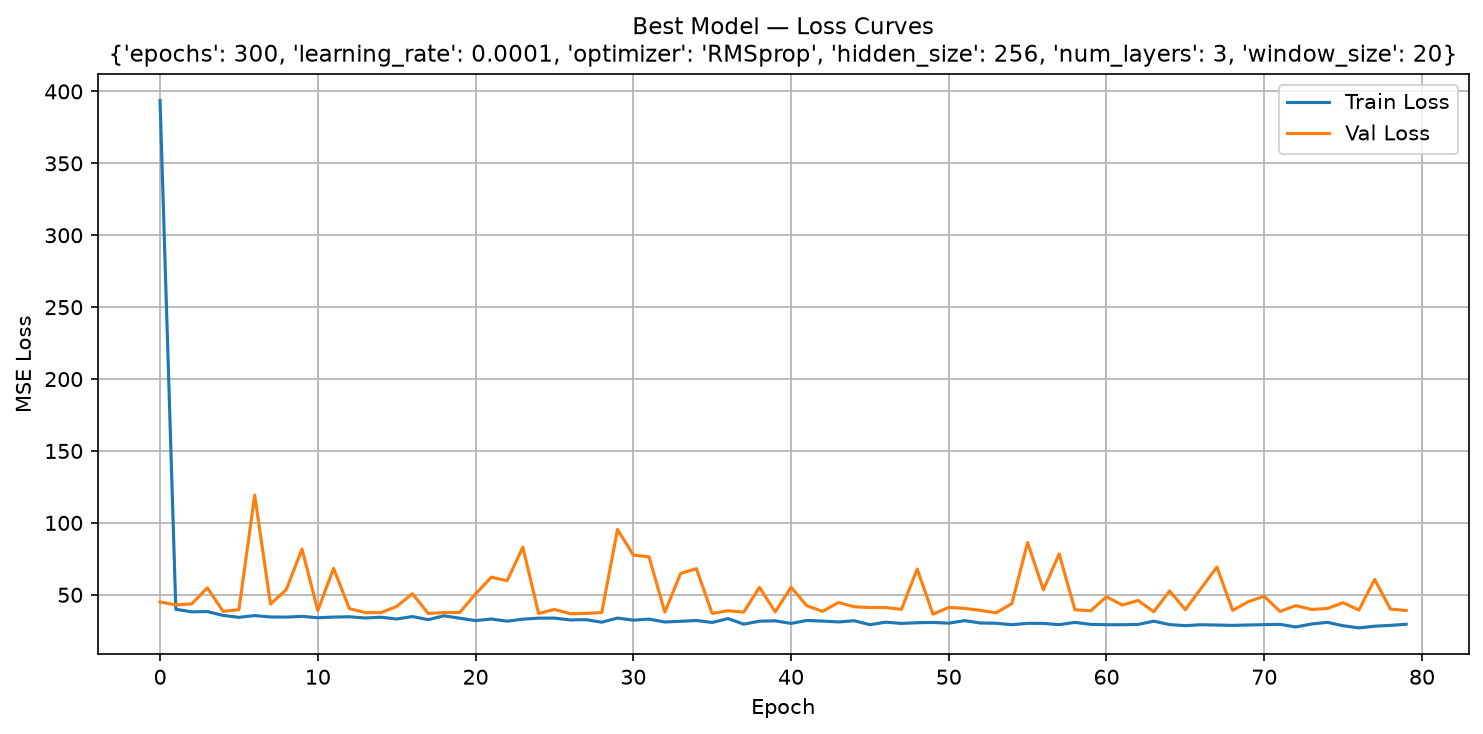
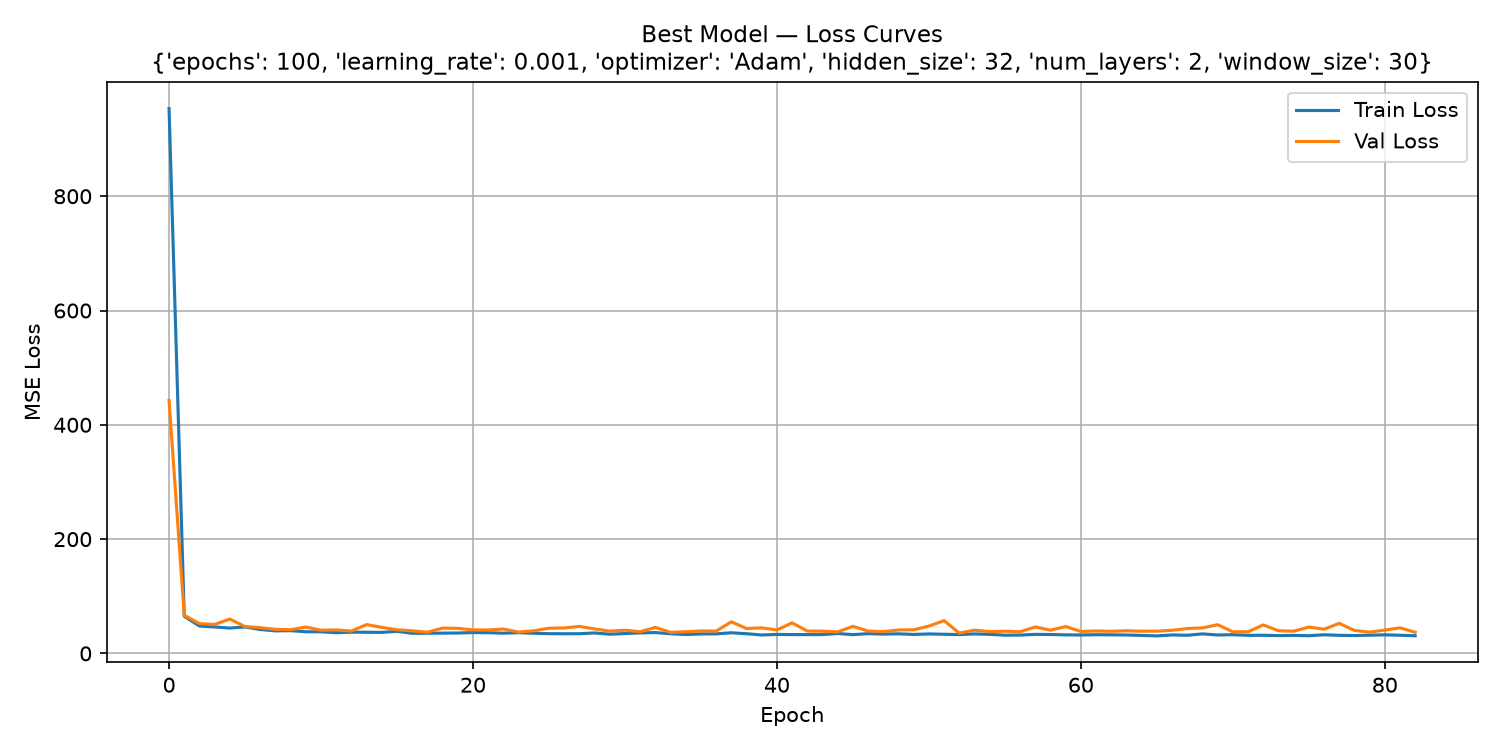
ai-note73: update v12 wide search to select by validation loss
- Full script dump replaced with local val_loss version (5-value train_trial, inf handling)
- What-you-should-see table and commentary rewritten from a real 200-trial run
- Honest finding: 200 trials did not beat version 11 on the test set (R2 0.3710 vs 0.4542)
- All 53 diverged trials use SGD; window answer moved from 10 to 30
- Regenerated v12 loss, predictions and validation-loss bar chart
- Updated meta/og descriptions and the AI Notes card with the new numbers
- Replaced time_12.py in Folder-AI-Forecast.zip

diff --git a/notes/ai-note73.html b/notes/ai-note73.html
@@ -13,7 +13,7 @@
 <meta charset="UTF-8">
 <meta name="viewport" content="width=device-width, initial-scale=1.0">
 <title>How wide should the search be (Forecast, version 12)? | Howard Lam, PhD</title>
-<meta name="description" content="Version 12 widens every dial and runs 200 trials over 5,760 combinations. Eighty-one of those trials collapsed, and the winner took only a small step.">
+<meta name="description" content="Version 12 widens every dial and runs 200 trials over 5,760 combinations. Fifty-three of those trials collapsed, and ten times the search did not beat version 11 on the test set.">
 <link rel="canonical" href="https://pongyuenlam.github.io/notes/ai-note73.html">
 <link rel="alternate" hreflang="en" href="https://pongyuenlam.github.io/notes/ai-note73.html">
 <link rel="alternate" hreflang="zh-Hant" href="https://pongyuenlam.github.io/zh-HK/notes/ai-note73.html">
@@ -22,7 +22,7 @@
 
 <meta property="og:type" content="article">
 <meta property="og:title" content="How wide should the search be (Forecast, version 12)?">
-<meta property="og:description" content="Version 12 widens every dial and runs 200 trials over 5,760 combinations. Eighty-one of those trials collapsed, and the winner took only a small step.">
+<meta property="og:description" content="Version 12 widens every dial and runs 200 trials over 5,760 combinations. Fifty-three of those trials collapsed, and ten times the search did not beat version 11 on the test set.">
 <meta property="og:url" content="https://pongyuenlam.github.io/notes/ai-note73.html">
 <meta property="og:image" content="https://pongyuenlam.github.io/images/howard-lam-profile.jpg">
 <meta property="og:image:alt" content="Howard Lam, PhD">
@@ -34,7 +34,7 @@
   "@context": "https://schema.org",
   "@type": "BlogPosting",
   "headline": "How wide should the search be (Forecast, version 12)?",
-  "description": "Version 12 widens every dial and runs 200 trials over 5,760 combinations. Eighty-one of those trials collapsed, and the winner took only a small step.",
+  "description": "Version 12 widens every dial and runs 200 trials over 5,760 combinations. Fifty-three of those trials collapsed, and ten times the search did not beat version 11 on the test set.",
   "author": {
     "@type": "Person",
     "name": "Howard Pong Yuen Lam"
@@ -109,7 +109,9 @@
     prediction. A negative score is worse. So a large negative number is not a near miss. It means
     the model's guesses were further from the truth than a flat average line would have been. In
     practice, the weights changed too much during training and the errors did not become smaller. The
-    program does not treat this as an error. It records the score and moves on to the next trial.
+    program does not treat this as an error. It records the score and moves on to the next trial. In
+    this version the ranking is by validation loss, so a trial that runs away ends with
+    <code>inf</code> and sinks to the bottom of the table.
   </p>
 
   <h2>What you should see</h2>
@@ -120,62 +122,69 @@
   </p>
   <pre class="code-block no-copy"><code>Running 200 random trials...
 
-Trial   Win  Epochs      LR      Opt  Hidden  Layers        R2        RMSE
+Trial   Win  Epochs      LR      Opt  Hidden  Layers      Val Loss
 ------------------------------------------------------------------------------
-    1    30     500    0.01  RMSprop      64       2    0.4421      5.3064
-    2    10     100    0.01  RMSprop      64       1    0.4529      5.3201
-    4    20     200    0.01      SGD      10       4  -341.2371    132.4929
-    9    50     500     0.1     Adam      32       2   -91.9151     68.3195
-   14    10     100   0.001     Adam      32       2    0.4612      5.2795
-   27    10     300   0.005     Adam     256       4    0.4616      5.2777
-   32    20     100  0.0001     Adam     128       2    0.4646      5.2406
-   70    20     300  0.0001  RMSprop     256       3    0.4790      5.1695
-   89    20     200   0.005      SGD      10       2  -465.9302    154.7587
-   95    20     500     0.1      SGD      64       2  -470.9389    155.5865
-  168    10     200    0.05     Adam      64       4    0.4660      5.2561
-  185    30     100   0.001  RMSprop     256       3    0.4733      5.1559
+    1    30     500    0.01  RMSprop      64       2       38.6746
+    2    10     100    0.01  RMSprop      64       1       37.1127
+    4    20     200    0.01      SGD      10       4           inf
+    8    50     100    0.01      SGD      64       2           inf
+   12    20     500   0.005     Adam      64       2       37.1015
+   31    30     200    0.01      SGD      64       2           inf
+   60    20     500   0.001  RMSprop      10       3       37.2799
+  102    30     100   0.001     Adam      32       2       35.5082
+  131    10     100    0.01     Adam      32       3       37.1468
+  134    10     100     0.1     Adam     128       2       37.1898
+  142    30     300   0.001     Adam      10       2       37.2805
+  148    30     100  0.0001      SGD      10       4     7775.1705
 
 Best model saved → best_model_12.pt
-Best config : {'epochs': 300, 'learning_rate': 0.0001, 'optimizer': 'RMSprop', 'hidden_size': 256, 'num_layers': 3, 'window_size': 20}
+Best config : {'epochs': 100, 'learning_rate': 0.001, 'optimizer': 'Adam', 'hidden_size': 32, 'num_layers': 2, 'window_size': 30}
+Best validation MSE: 35.5082
 
 Test Set Metrics:
-  MAE:  4.1235
-  MSE:  26.7236
-  RMSE: 5.1695
-  R²:   0.4790
+  MAE:  4.4603
+  MSE:  31.7479
+  RMSE: 5.6345
+  R²:   0.3710
 
 Results table saved → search_results_12.xlsx</code></pre>
   <p>
-    Trial 70 is the winner: 300 epochs, learning rate 0.0001, RMSprop, 256 hidden units, 3 layers and
-    a window of 20. Early stopping ended its training after 80 of the 300 allowed epochs, so the extra
+    Trial 102 is the winner: 100 epochs, learning rate 0.001, Adam, 32 hidden units, 2 layers and a
+    window of 30. Early stopping ended its training after 83 of the 100 allowed epochs, so the extra
     epochs in the setting were never used.
   </p>
   <p>
-    <strong>Two hundred trials bought 0.0217 of R&sup2;.</strong> Version 11's best was 0.4573 and
-    this one is 0.4790, so ten times the computing moved the score by 0.0217.
+    <strong>Ten times the search made the test score worse.</strong> Version 11's winner scored
+    R&sup2; 0.4542 on the test days. This winner scores 0.3710, even though its validation loss
+    (35.5082) is better than version 11's (35.7390). This is the price of choosing by validation:
+    with 200 draws there are simply more chances to find a configuration that fits the validation
+    days by luck. The winner overfitted the validation set, and the test set called it out.
   </p>
   <p>
     <strong>Best-of-20 and best-of-200 are not the same measurement.</strong> A larger draw has more
-    chances of catching a lucky configuration.
+    chances of catching a lucky configuration. The version 11 winner would not even be the best
+    choice here, because a different trial happened to look better on the validation days.
   </p>
   <p>
-    <strong>The winner takes very small steps.</strong> The smallest learning rate on offer, 0.0001,
-    won with 0.4790.
+    <strong>Every collapse uses SGD.</strong> Fifty-three of the 200 trials report <code>inf</code>:
+    the loss ran away and never came back. All fifty-three use SGD with no momentum, and most are
+    the larger hidden layers. Adam and RMSprop, which scale each step by recent gradient history,
+    survived every learning rate on offer.
   </p>
   <p>
-    The window answer also moved: version 11 pointed at a window of 10, while this larger search
-    points at 20.
+    The window answer also moved again: version 11 pointed at a window of 10, and this larger search
+    points at 30. A choice that shifts when the search widens is not a stable answer.
   </p>
-  <figure class="exhibit"><img src="/images/forecast-v12-loss.png" alt="Loss curves of the winning trial, with a training line and a validation line drawn by the program" style="max-width:100%; height:auto;"><figcaption>Loss curves of the winning trial, drawn by the program's own plotting code. Training stopped after 80 of the 300 allowed epochs, when early stopping had seen no improvement for 30 epochs.</figcaption></figure>
-  <figure class="exhibit"><img src="/images/forecast-v12-predictions.png" alt="Actual values in pale grey and predicted values as a red line across the test days of the winning trial" style="max-width:100%; height:auto;"><figcaption>Actual (grey) and predicted (red) values on the 217 test days of the winning trial, with a window of 20.</figcaption></figure>
-  <figure class="exhibit"><img src="/images/forecast-v12-r2-bar.png" alt="Bar chart of R squared for all two hundred trials sorted best to worst, with a red dashed line at the best score" style="max-width:100%; height:auto;"><figcaption>R&sup2; for all 200 trials, sorted best to worst, with the best score marked. The negative bars are drawn to scale, which squeezes the good ones against the zero line.</figcaption></figure>
+  <figure class="exhibit"><img src="/images/forecast-v12-loss.png" alt="Loss curves of the winning trial, with a training line and a validation line drawn by the program" style="max-width:100%; height:auto;"><figcaption>Loss curves of the winning trial, drawn by the program's own plotting code. Training stopped after 83 of the 100 allowed epochs, when early stopping had seen no improvement for 30 epochs.</figcaption></figure>
+  <figure class="exhibit"><img src="/images/forecast-v12-predictions.png" alt="Actual values in pale grey and predicted values as a red line across the test days of the winning trial" style="max-width:100%; height:auto;"><figcaption>Actual (grey) and predicted (red) values on the 215 test days of the winning trial, with a window of 30.</figcaption></figure>
+  <figure class="exhibit"><img src="/images/forecast-v12-r2-bar.png" alt="Bar chart of validation loss for all two hundred trials sorted best to worst, with one red dashed line at the best score and a single bar reaching into the millions" style="max-width:100%; height:auto;"><figcaption>Validation loss for all 200 trials, sorted best to worst, with the best score marked. Two runaway trials near the right reach into the millions, which crushes every ordinary trial flat against the red line; the fifty-three trials that diverged entirely have no bar at all.</figcaption></figure>
 
   <h2>The whole program</h2>
   <p>
     The file below is the complete <code>time_12.py</code>, unedited:
   </p>
   <pre class="code-block"><code>import os
-os.environ["KMP_DUPLICATE_LIB_OK"] = "TRUE"
+os.environ[&quot;KMP_DUPLICATE_LIB_OK&quot;] = &quot;TRUE&quot;
 
 import torch
 import torch.nn as nn
@@ -195,20 +204,20 @@ torch.manual_seed(SEED)
 
 # ── Search space ─────────────────────────────────────────────────────────────
 SEARCH_SPACE = {
-    "epochs":       [100, 200, 300, 500],
-    "learning_rate":[0.0001, 0.001, 0.005, 0.01, 0.05, 0.1],
-    "optimizer":    ["Adam", "SGD", "RMSprop"],
-    "hidden_size":  [10, 32, 64, 128, 256],
-    "num_layers":   [1, 2, 3, 4],
-    "window_size":  [10, 20, 30, 50],
+    &quot;epochs&quot;:       [100, 200, 300, 500],
+    &quot;learning_rate&quot;:[0.0001, 0.001, 0.005, 0.01, 0.05, 0.1],
+    &quot;optimizer&quot;:    [&quot;Adam&quot;, &quot;SGD&quot;, &quot;RMSprop&quot;],
+    &quot;hidden_size&quot;:  [10, 32, 64, 128, 256],
+    &quot;num_layers&quot;:   [1, 2, 3, 4],
+    &quot;window_size&quot;:  [10, 20, 30, 50],
 }
 N_TRIALS            = 200
 EARLY_STOP_PATIENCE = 30
 BATCH_SIZE          = 32
 
 # ── Data ─────────────────────────────────────────────────────────────────────
-df = pd.read_csv("time_series.csv")
-series = df["series"].values
+df = pd.read_csv(&quot;time_series.csv&quot;)
+series = df[&quot;series&quot;].values
 series_tensor = torch.tensor(series, dtype=torch.float32)
 
 def make_loaders(window_size):
@@ -224,7 +233,7 @@ def make_loaders(window_size):
     test_loader  = DataLoader(Subset(full_dataset, range(val_end, total)),   batch_size=BATCH_SIZE, shuffle=False)
     return train_loader, val_loader, test_loader
 
-device = torch.device("cuda" if torch.cuda.is_available() else "cpu")
+device = torch.device(&quot;cuda&quot; if torch.cuda.is_available() else &quot;cpu&quot;)
 
 # ── Model factory ─────────────────────────────────────────────────────────────
 def build_model(input_size, hidden_size, num_layers):
@@ -237,21 +246,21 @@ def build_model(input_size, hidden_size, num_layers):
     return nn.Sequential(*layers).to(device)
 
 def get_optimizer(name, params, lr):
-    return {"Adam": optim.Adam, "SGD": optim.SGD, "RMSprop": optim.RMSprop}[name](params, lr=lr)
+    return {&quot;Adam&quot;: optim.Adam, &quot;SGD&quot;: optim.SGD, &quot;RMSprop&quot;: optim.RMSprop}[name](params, lr=lr)
 
 # ── Train one trial ───────────────────────────────────────────────────────────
 def train_trial(cfg):
-    train_loader, val_loader, test_loader = make_loaders(cfg["window_size"])
-    model     = build_model(cfg["window_size"] - 1, cfg["hidden_size"], cfg["num_layers"])
+    train_loader, val_loader, test_loader = make_loaders(cfg[&quot;window_size&quot;])
+    model     = build_model(cfg[&quot;window_size&quot;] - 1, cfg[&quot;hidden_size&quot;], cfg[&quot;num_layers&quot;])
     criterion = nn.MSELoss()
-    optimizer = get_optimizer(cfg["optimizer"], model.parameters(), cfg["learning_rate"])
+    optimizer = get_optimizer(cfg[&quot;optimizer&quot;], model.parameters(), cfg[&quot;learning_rate&quot;])
 
-    best_val_loss = float("inf")
+    best_val_loss = float(&quot;inf&quot;)
     best_state    = {k: v.clone() for k, v in model.state_dict().items()}
     patience_ctr  = 0
     train_losses, val_losses = [], []
 
-    for epoch in range(cfg["epochs"]):
+    for epoch in range(cfg[&quot;epochs&quot;]):
         # train
         model.train()
         t_loss = 0
@@ -286,7 +295,7 @@ def train_trial(cfg):
                 break
 
     model.load_state_dict(best_state)
-    return model, train_losses, val_losses, test_loader
+    return model, train_losses, val_losses, best_val_loss, test_loader
 
 # ── Evaluate on test set ──────────────────────────────────────────────────────
 def evaluate(model, test_loader):
@@ -306,87 +315,92 @@ def evaluate(model, test_loader):
     r2 = (1 - ss_res / ss_tot).item()
     return r2, mae, mse, rmse, preds, actuals
 
-# ── Random search ─────────────────────────────────────────────────────────────
+# ── Random search; select by validation loss ──────────────────────────────────
 keys   = list(SEARCH_SPACE.keys())
 combos = list(itertools.product(*SEARCH_SPACE.values()))
 sampled = random.sample(combos, min(N_TRIALS, len(combos)))
 
 results = []
-best_r2    = -float("inf")
+best_val_loss = float(&quot;inf&quot;)
 best_trial = None
 
-print(f"Running {N_TRIALS} random trials...\n")
-print(f"{'Trial':&gt;5}  {'Win':&gt;4}  {'Epochs':&gt;6}  {'LR':&gt;6}  {'Opt':&gt;7}  {'Hidden':&gt;6}  {'Layers':&gt;6}  {'R2':&gt;8}  {'RMSE':&gt;10}")
-print("-" * 78)
+print(f&quot;Running {N_TRIALS} random trials...\n&quot;)
+print(f&quot;{&#x27;Trial&#x27;:&gt;5}  {&#x27;Win&#x27;:&gt;4}  {&#x27;Epochs&#x27;:&gt;6}  {&#x27;LR&#x27;:&gt;6}  {&#x27;Opt&#x27;:&gt;7}  {&#x27;Hidden&#x27;:&gt;6}  {&#x27;Layers&#x27;:&gt;6}  {&#x27;Val Loss&#x27;:&gt;12}&quot;)
+print(&quot;-&quot; * 78)
 
 for i, combo in enumerate(sampled):
     cfg = dict(zip(keys, combo))
-    model, t_losses, v_losses, test_loader = train_trial(cfg)
-    r2, mae, mse, rmse, preds, actuals = evaluate(model, test_loader)
+    model, t_losses, v_losses, trial_val_loss, test_loader = train_trial(cfg)
 
-    row = {**cfg, "r2": round(r2, 4), "mae": round(mae, 4), "rmse": round(rmse, 4),
-           "actual_epochs": len(t_losses)}
+    row = {**cfg, &quot;val_loss&quot;: trial_val_loss, &quot;actual_epochs&quot;: len(t_losses)}
     results.append(row)
 
-    print(f"{i+1:&gt;5}  {cfg['window_size']:&gt;4}  {cfg['epochs']:&gt;6}  {cfg['learning_rate']:&gt;6}  "
-          f"{cfg['optimizer']:&gt;7}  {cfg['hidden_size']:&gt;6}  {cfg['num_layers']:&gt;6}  "
-          f"{r2:&gt;8.4f}  {rmse:&gt;10.4f}")
+    print(f&quot;{i+1:&gt;5}  {cfg[&#x27;window_size&#x27;]:&gt;4}  {cfg[&#x27;epochs&#x27;]:&gt;6}  {cfg[&#x27;learning_rate&#x27;]:&gt;6}  &quot;
+          f&quot;{cfg[&#x27;optimizer&#x27;]:&gt;7}  {cfg[&#x27;hidden_size&#x27;]:&gt;6}  {cfg[&#x27;num_layers&#x27;]:&gt;6}  &quot;
+          f&quot;{trial_val_loss:&gt;12.4f}&quot;)
 
-    if r2 &gt; best_r2:
-        best_r2    = r2
-        best_trial = {"cfg": cfg, "model": model, "t_losses": t_losses,
-                      "v_losses": v_losses, "preds": preds, "actuals": actuals,
-                      "r2": r2, "mae": mae, "mse": mse, "rmse": rmse}
+    if trial_val_loss &lt; best_val_loss:
+        best_val_loss = trial_val_loss
+        best_trial = {&quot;cfg&quot;: cfg, &quot;model&quot;: model, &quot;t_losses&quot;: t_losses,
+                      &quot;v_losses&quot;: v_losses, &quot;val_loss&quot;: trial_val_loss,
+                      &quot;test_loader&quot;: test_loader}
+
+# ── Evaluate the selected model on the test set once ─────────────────────────
+r2, mae, mse, rmse, preds, actuals = evaluate(best_trial[&quot;model&quot;], best_trial[&quot;test_loader&quot;])
+best_trial.update({&quot;r2&quot;: r2, &quot;mae&quot;: mae, &quot;mse&quot;: mse, &quot;rmse&quot;: rmse,
+                   &quot;preds&quot;: preds, &quot;actuals&quot;: actuals})
 
 # ── Save best model ───────────────────────────────────────────────────────────
-torch.save(best_trial["model"].state_dict(), "best_model_12.pt")
-print(f"\nBest model saved → best_model_12.pt")
-print(f"Best config : {best_trial['cfg']}")
-print(f"\nTest Set Metrics:")
-print(f"  MAE:  {best_trial['mae']:.4f}")
-print(f"  MSE:  {best_trial['mse']:.4f}")
-print(f"  RMSE: {best_trial['rmse']:.4f}")
-print(f"  R²:   {best_trial['r2']:.4f}")
+torch.save(best_trial[&quot;model&quot;].state_dict(), &quot;best_model_12.pt&quot;)
+print(f&quot;\nBest model saved → best_model_12.pt&quot;)
+print(f&quot;Best config : {best_trial[&#x27;cfg&#x27;]}&quot;)
+print(f&quot;Best validation MSE: {best_val_loss:.4f}&quot;)
+print(f&quot;\nTest Set Metrics:&quot;)
+print(f&quot;  MAE:  {mae:.4f}&quot;)
+print(f&quot;  MSE:  {mse:.4f}&quot;)
+print(f&quot;  RMSE: {rmse:.4f}&quot;)
+print(f&quot;  R²:   {r2:.4f}&quot;)
 
-# ── Save results table ────────────────────────────────────────────────────────
-results_df = pd.DataFrame(results).sort_values("r2", ascending=False).reset_index(drop=True)
+# ── Save results table ranked by validation loss ─────────────────────────────
+results_df = pd.DataFrame(results).sort_values(&quot;val_loss&quot;).reset_index(drop=True)
 results_df.index += 1
-results_df.to_excel("search_results_12.xlsx", index_label="Rank")
-print("Results table saved → search_results_12.xlsx")
+results_df.to_excel(&quot;search_results_12.xlsx&quot;, index_label=&quot;Rank&quot;)
+print(&quot;Results table saved → search_results_12.xlsx&quot;)
 
 # ── Plots for best model only ─────────────────────────────────────────────────
 # 1. Loss curves
 plt.figure(figsize=(10, 5))
-plt.plot(best_trial["t_losses"], label="Train Loss")
-plt.plot(best_trial["v_losses"], label="Val Loss")
-plt.title(f"Best Model — Loss Curves\n{best_trial['cfg']}", fontsize=11)
-plt.xlabel("Epoch"); plt.ylabel("MSE Loss")
+plt.plot(best_trial[&quot;t_losses&quot;], label=&quot;Train Loss&quot;)
+plt.plot(best_trial[&quot;v_losses&quot;], label=&quot;Val Loss&quot;)
+plt.title(f&quot;Best Model — Loss Curves\n{best_trial[&#x27;cfg&#x27;]}&quot;, fontsize=11)
+plt.xlabel(&quot;Epoch&quot;); plt.ylabel(&quot;MSE Loss&quot;)
 plt.legend(); plt.grid(True)
 plt.tight_layout()
-plt.savefig("best_model_loss.png", dpi=150)
+plt.savefig(&quot;best_model_loss.png&quot;, dpi=150)
 plt.show()
 
 # 2. Predictions vs actual
 plt.figure(figsize=(12, 5))
-plt.plot(best_trial["actuals"], label="Actual",    color="lightgrey", linewidth=1.5)
-plt.plot(best_trial["preds"],   label="Predicted", color="red",       linewidth=1.5)
-plt.title(f"Best Model — Predictions vs Actual (Test Set)\nR²={best_trial['r2']:.4f}  RMSE={best_trial['rmse']:.4f}", fontsize=11)
-plt.xlabel("Time"); plt.ylabel("Value")
+plt.plot(best_trial[&quot;actuals&quot;], label=&quot;Actual&quot;,    color=&quot;lightgrey&quot;, linewidth=1.5)
+plt.plot(best_trial[&quot;preds&quot;],   label=&quot;Predicted&quot;, color=&quot;red&quot;,       linewidth=1.5)
+plt.title(f&quot;Best Model — Predictions vs Actual (Test Set)\nR²={best_trial[&#x27;r2&#x27;]:.4f}  RMSE={best_trial[&#x27;rmse&#x27;]:.4f}&quot;, fontsize=11)
+plt.xlabel(&quot;Time&quot;); plt.ylabel(&quot;Value&quot;)
 plt.legend(); plt.grid(True)
 plt.tight_layout()
-plt.savefig("best_model_predictions.png", dpi=150)
+plt.savefig(&quot;best_model_predictions.png&quot;, dpi=150)
 plt.show()
 
-# 3. R² bar chart across all trials
+# 3. Validation-loss bar chart across all trials
 plt.figure(figsize=(12, 4))
-colors = ["#4472C4" if r &lt; best_r2 else "#70AD47" for r in results_df["r2"]]
-plt.bar(results_df.index, results_df["r2"], color=colors)
-plt.axhline(best_r2, color="red", linestyle="--", linewidth=1, label=f"Best R²={best_r2:.4f}")
-plt.title("R² Across All Trials (green = best)")
-plt.xlabel("Rank"); plt.ylabel("R²")
-plt.legend(); plt.grid(axis="y", alpha=0.4)
+colors = [&quot;#70AD47&quot; if rank == 1 else &quot;#4472C4&quot; for rank in results_df.index]
+plt.bar(results_df.index, results_df[&quot;val_loss&quot;], color=colors)
+plt.axhline(best_val_loss, color=&quot;red&quot;, linestyle=&quot;--&quot;, linewidth=1,
+            label=f&quot;Best Val Loss={best_val_loss:.4f}&quot;)
+plt.title(&quot;Validation Loss Across All Trials (green = best)&quot;)
+plt.xlabel(&quot;Rank&quot;); plt.ylabel(&quot;Validation MSE Loss&quot;)
+plt.legend(); plt.grid(axis=&quot;y&quot;, alpha=0.4)
 plt.tight_layout()
-plt.savefig("trial_r2_chart.png", dpi=150)
+plt.savefig(&quot;trial_val_loss_chart.png&quot;, dpi=150)
 plt.show()
 </code></pre>
 

diff --git a/ai-programs.html b/ai-programs.html
@@ -95,7 +95,7 @@
   <div class="card" data-track="forecast">
     <h3><a href="notes/ai-note73.html">How wide should the search be (Forecast, version 12)?</a></h3>
     <p class="meta">Howard Pong Yuen Lam &middot; November 13, 2026 &middot; 7 min read</p>
-    <p>Every range widens and 200 of 5,760 combinations are tried: the best reaches R&sup2; 0.4790, and 81 trials end worse than guessing the average, almost all of them on SGD.</p>
+    <p>Every range widens and 200 of 5,760 combinations are tried: the best scores R&sup2; 0.3710 on the test set, and every one of the 53 runaway trials uses SGD.</p>
   </div>
 
   <div class="card" data-track="forecast">
